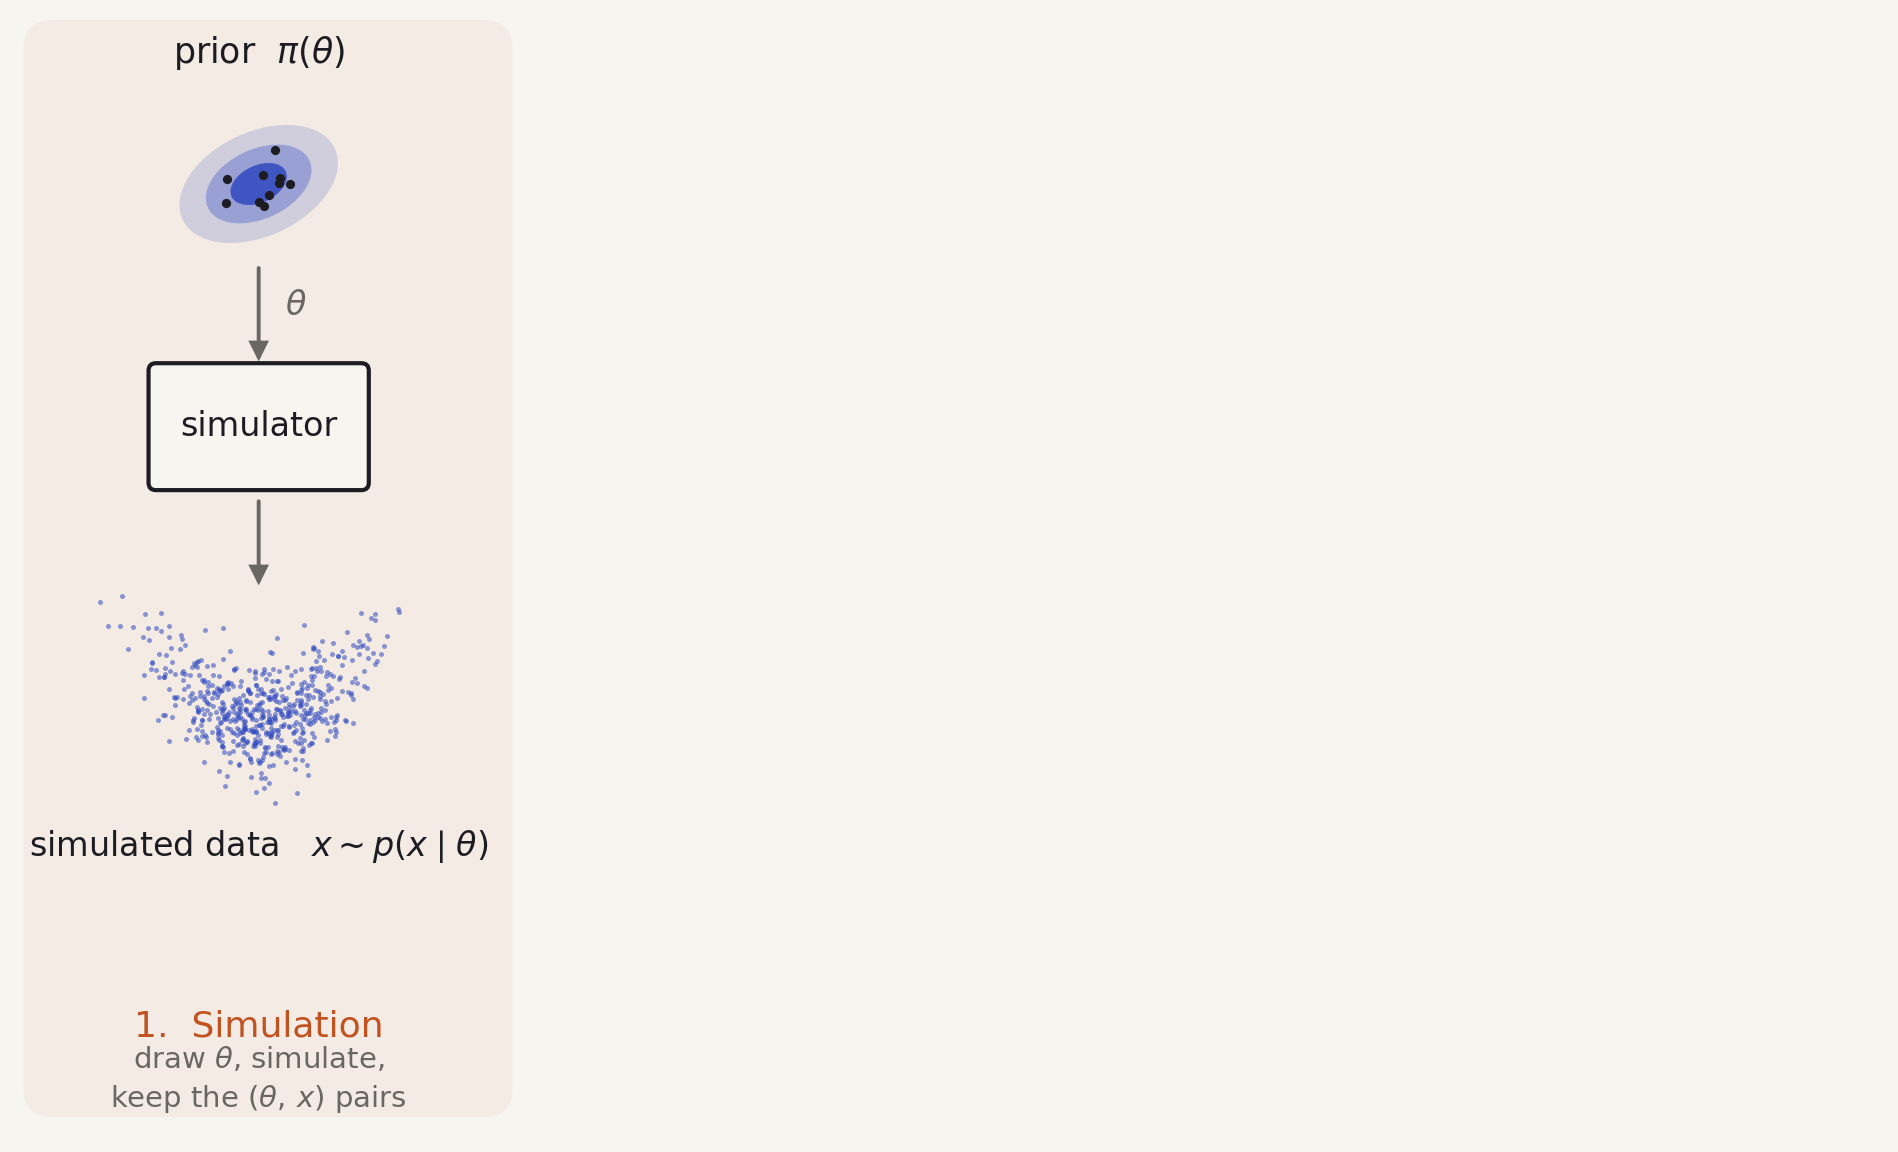
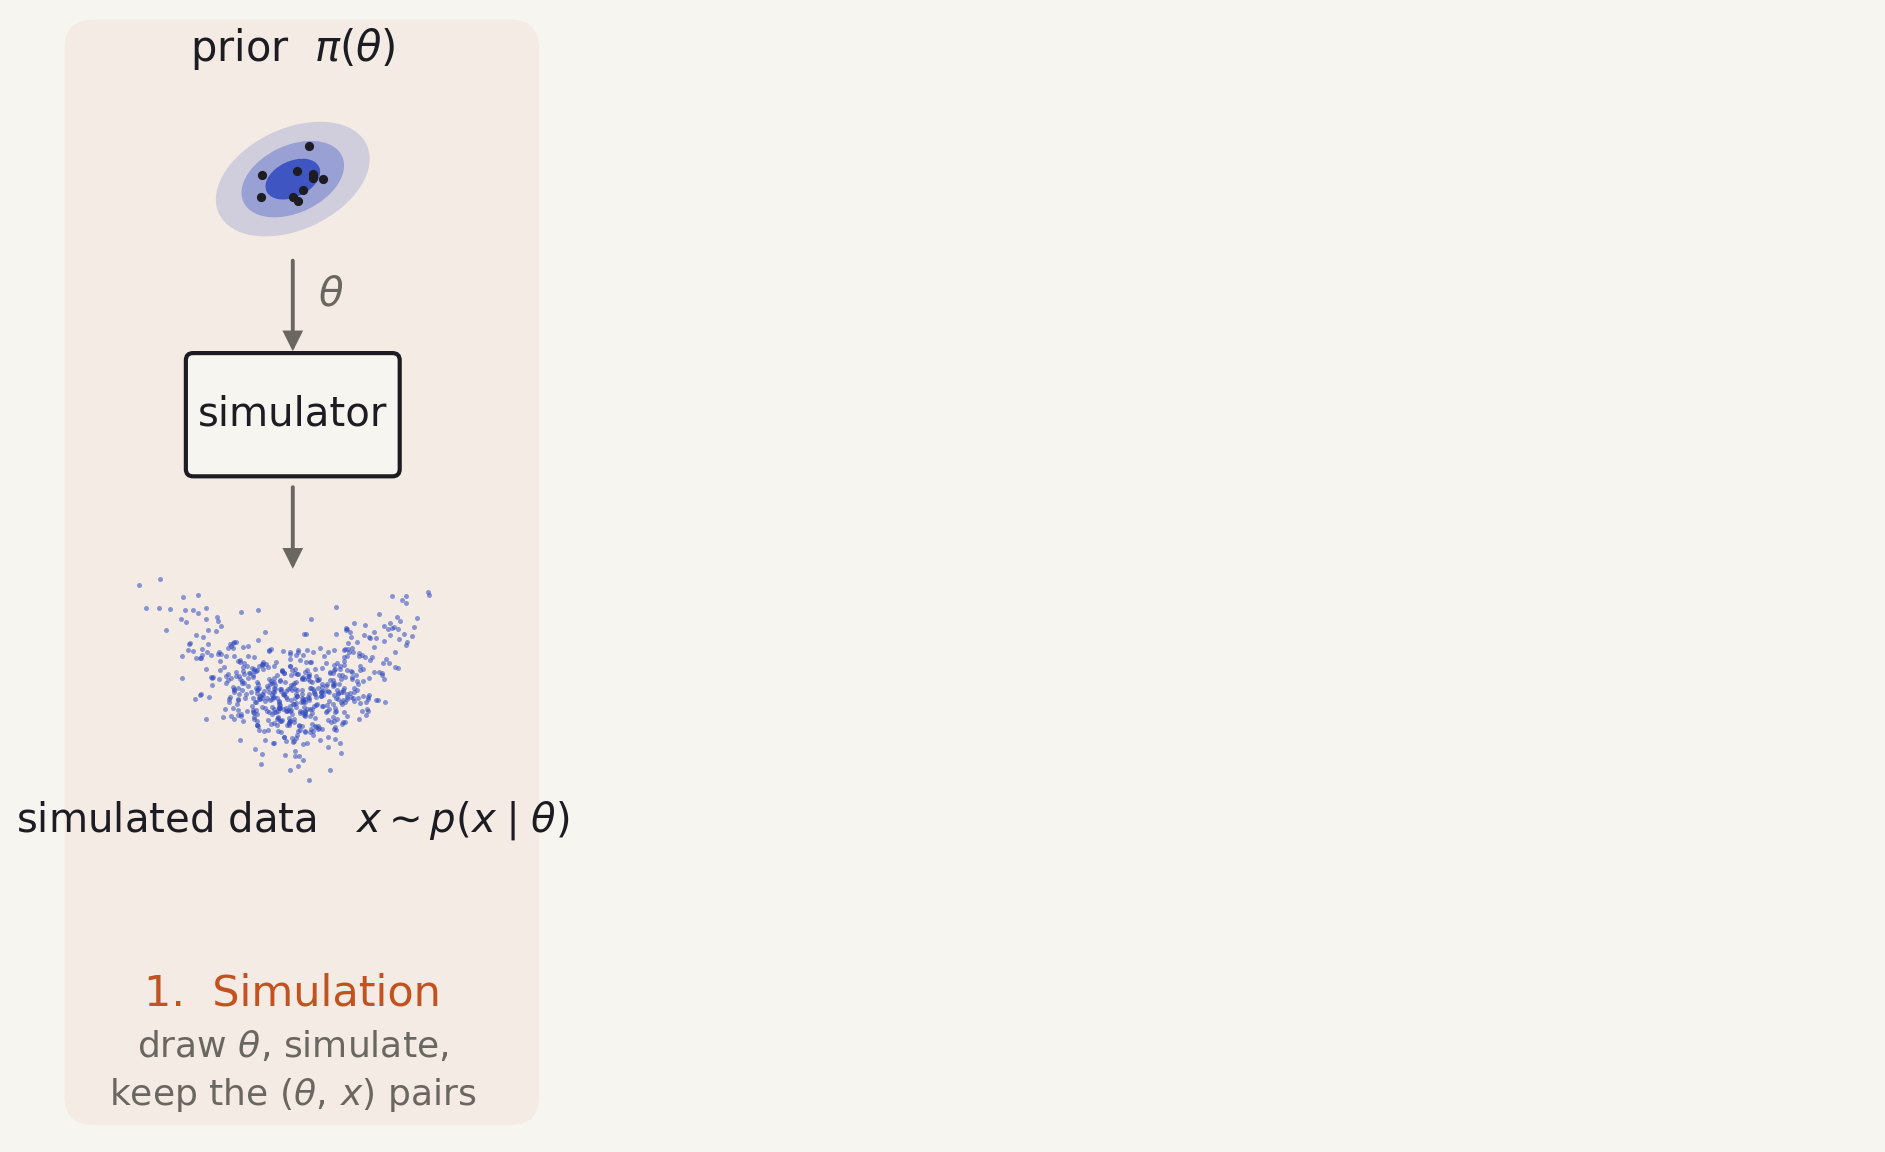
fix(PhD_Defense_2026): frame 36's diagram centres, and its labels clear the floor
The 29px leftward shift was two rules fighting. reveal caps every slide image
at max-width: 95%, so `width: 100%` really meant 1105.8 of the 1164px cell —
and our `margin: 0` overrode the `margin: auto` reveal puts on .r-stack
children, so that narrower image sat flush left instead of centring. Now
max-width: none and margin: 0 auto; the ink lands 1.5px off centre.

Type: on-canvas px = points x (dpi/72) x display scale, and at this figure's
0.486 scale the stage captions were 14.2px and everything else 16-18px —
at or under the deck's 17px floor. All of it up by ~1.21x (10.5 -> 13pt,
12 -> 14.5, 12.5 -> 15, 13 -> 15.5), which lands the smallest at 17.6px.

Three knock-on placements, since the larger type no longer fitted where the
smaller type did:

  - the stage name's descender met its caption's ascender: name -3.2 -> -2.8,
    caption -5.1 -> -5.9, and the panels drop from -8.4 to -10.6 so the
    two-line caption still sits inside its panel
  - "conditional flow q(theta|x)" grew past panel 2's right edge into panel 3:
    centre 58.7 -> 56.0, with "base N" 37 -> 34.5 to keep the gap even
  - ylim -10 -> -11.8 for the lower panels

The crop now comes from the full build's tight bbox rather than the axes box,
which is why the loop runs 3 first — the partial builds reuse that one box, so
they still stack in register. Ink margins are even to 4px.

Frame 36 measures 692 of 720px. Both fragment states verified.
[…]

diff --git a/PhD_Defense_2026/custom.css b/PhD_Defense_2026/custom.css
@@ -2200,8 +2200,12 @@
    so the same deck sized this figure differently on a laptop and a projector.
    560 is the vertical budget left by the title and the lede. */
 .reveal .slides section.sbigen .sbi-fig img {
-	width: 100%; height: auto; max-height: 560px; object-fit: contain;
-	margin: 0; border: 0; box-shadow: none; background: transparent;
+	/* max-width: none — reveal caps every slide image at 95%, so width: 100%
+	   was really 95% (1105.8 of 1164px). And `margin: 0` overrode the
+	   `margin: auto` reveal puts on .r-stack children, so that narrower image
+	   sat flush left in its grid cell: the figure read 29px left of centre. */
+	width: 100%; max-width: none; height: auto; max-height: 560px; object-fit: contain;
+	margin: 0 auto; border: 0; box-shadow: none; background: transparent;
 }
 .reveal .slides section.sbigen .pull { max-width: 94%; margin-top: 1em; }
 

diff --git a/tools/make-sbi-pipeline.py b/tools/make-sbi-pipeline.py
@@ -46,11 +46,14 @@ PANELS = [
 ]
 
 
+CROP = None                      # set by the first call; see save, below
+
+
 def draw(upto):
     fig, ax = plt.subplots(figsize=(13.6, 5.6), dpi=200)
     fig.patch.set_facecolor(PAPER)
     ax.set_facecolor(PAPER)
-    ax.set_xlim(0, 100); ax.set_ylim(-10, 50)
+    ax.set_xlim(0, 100); ax.set_ylim(-11.8, 50)
     ax.set_xticks([]); ax.set_yticks([]); ax.set_aspect("equal")
     for sp in ax.spines.values():
         sp.set_visible(False)
@@ -91,7 +94,7 @@ def draw(upto):
 
     # the tinted regions, one per stage revealed so far
     for k, (x0, x1, col, alpha) in enumerate(PANELS[:upto], start=1):
-        ax.add_patch(FancyBboxPatch((x0, -8.4), x1 - x0, 57.6,
+        ax.add_patch(FancyBboxPatch((x0, -10.6), x1 - x0, 59.8,
                                     boxstyle="round,pad=0.6,rounding_size=1.6",
                                     facecolor=col, alpha=alpha, edgecolor="none",
                                     zorder=0))
@@ -99,7 +102,7 @@ def draw(upto):
     rng = np.random.default_rng(5)
 
     # ======================================================== 1. simulation
-    ax.text(13, 47.5, r"prior  $\pi(\theta)$", ha="center", fontsize=12.5, color=INK)
+    ax.text(13, 47.5, r"prior  $\pi(\theta)$", ha="center", fontsize=15, color=INK)
     for w, a in ((9.0, 0.18), (6.0, 0.34), (3.2, 0.85)):
         ax.add_patch(Ellipse((13, 41), w, 0.62 * w, angle=25, facecolor=ACCENT,
                              alpha=a, edgecolor="none"))
@@ -107,11 +110,11 @@ def draw(upto):
     ax.scatter(th[:, 0], th[:, 1], s=11, color=INK, zorder=5, linewidths=0)
 
     arrow(13, 36.5, 13, 31.5)
-    ax.text(14.4, 34, r"$\theta$", fontsize=12, color=MUTED)
+    ax.text(14.4, 34, r"$\theta$", fontsize=14.5, color=MUTED)
 
     ax.add_patch(FancyBboxPatch((7.5, 25.0), 11, 6, boxstyle="round,pad=0.4",
                                 facecolor=PAPER, edgecolor=INK, lw=1.5))
-    ax.text(13, 28.0, "simulator", ha="center", va="center", fontsize=12, color=INK)
+    ax.text(13, 28.0, "simulator", ha="center", va="center", fontsize=14.5, color=INK)
 
     arrow(13, 24.0, 13, 19.5)
     xs = rng.normal(size=(600, 2))
@@ -120,11 +123,11 @@ def draw(upto):
     keep = (px > 4) & (px < 22) & (py > 7.5) & (py < 19)
     ax.scatter(px[keep], py[keep], s=3.2, color=ACCENT, alpha=0.55, linewidths=0)
     ax.text(13, 5.0, r"simulated data   $x \sim p(x \mid \theta)$",
-            ha="center", fontsize=12, color=INK)
+            ha="center", fontsize=14.5, color=INK)
 
     # ========================================================== 2. learning
     if upto >= 2:
-        ax.text(37, 40.5, r"base  $\mathcal{N}$", ha="center", fontsize=12.5,
+        ax.text(34.5, 40.5, r"base  $\mathcal{N}$", ha="center", fontsize=15,
                 color=INK)
         for w, a in ((8.0, 0.18), (5.2, 0.34), (2.8, 0.85)):
             ax.add_patch(Ellipse((37, 30), w, w * 0.62 * 1.6, facecolor=ACCENT,
@@ -142,29 +145,29 @@ def draw(upto):
             ax.scatter([cx] * k, ys, s=70, facecolor=PAPER, edgecolor=ACCENT,
                        lw=1.3, zorder=3)
             prev = (cx, ys)
-        ax.text(58.7, 40.5, r"conditional flow   $q_\phi(\theta \mid x)$",
-                ha="center", fontsize=12.5, color=ACCENT)
+        ax.text(56.0, 40.5, r"conditional flow   $q_\phi(\theta \mid x)$",
+                ha="center", fontsize=15, color=ACCENT)
 
         ax.plot([21, 58.7], [13.5, 13.5], color=INK, lw=1.3, solid_capstyle="butt")
         arrow(58.7, 13.5, 58.7, 25.5, color=INK)
-        ax.text(40, 15.4, r"the pairs  $(\theta,\, x)$", ha="center", fontsize=12,
+        ax.text(40, 15.4, r"the pairs  $(\theta,\, x)$", ha="center", fontsize=14.5,
                 color=INK)
         ax.text(40, 10.6, "trained by maximum likelihood", ha="center",
-                fontsize=10.5, color=MUTED)
+                fontsize=13, color=MUTED)
 
     # ========================================================= 3. inference
     if upto >= 3:
         ax.add_patch(FancyBboxPatch((73.5, 42.5), 21, 5.6, boxstyle="round,pad=0.4",
                                     facecolor=PAPER, edgecolor=INK, lw=1.5))
         ax.text(84, 45.3, r"observed  $x_{\rm obs}$", ha="center", va="center",
-                fontsize=12, color=INK)
+                fontsize=14.5, color=INK)
         arrow(84, 41.6, 84, 36.5)
         arrow(68.5, 30, 74.0, 30, color=WARM)
-        ax.text(71.3, 32.2, "trained", ha="center", fontsize=10.5, color=WARM)
+        ax.text(71.3, 32.2, "trained", ha="center", fontsize=13, color=WARM)
         blob(84.5, 29.0)
-        ax.text(84, 14.5, "posterior estimate", ha="center", fontsize=12, color=INK)
+        ax.text(84, 14.5, "posterior estimate", ha="center", fontsize=14.5, color=INK)
         ax.text(84, 10.3, r"$q_\phi(\theta \mid x_{\rm obs})$", ha="center",
-                fontsize=13, color=ACCENT)
+                fontsize=15.5, color=ACCENT)
 
     # ============================================================= captions
     STAGES = [(3.5, 22.5, "1.  Simulation", "draw $\\theta$, simulate,\nkeep the $(\\theta,\\, x)$ pairs"),
@@ -172,32 +175,38 @@ def draw(upto):
               (74.0, 97.0, "3.  Inference", "evaluate at $x_{\\rm obs}$;\ncheap to repeat")]
     for k, (x0, x1, name, sub) in enumerate(STAGES[:upto], start=1):
         col = "#c2521f" if k == 1 else ACCENT
-        ax.text((x0 + x1) / 2, -3.2, name, ha="center", va="top", fontsize=13,
+        ax.text((x0 + x1) / 2, -2.8, name, ha="center", va="top", fontsize=15.5,
                 color=col)
-        ax.text((x0 + x1) / 2, -5.1, sub, ha="center", va="top", fontsize=10.5,
+        ax.text((x0 + x1) / 2, -5.9, sub, ha="center", va="top", fontsize=13,
                 color=MUTED, linespacing=1.4)
 
     fig.subplots_adjust(0, 0, 1, 1)
     out = f"assets/diagrams/sbi_build_{upto}.png"
-    # Crop to the DATA box, not to the ink. set_aspect("equal") on a 13.6x5.6
-    # figure holding a 100x60 data range leaves the drawing filling the height
-    # and only 68.6% of the width, centred — 35% of every pixel emitted was
-    # empty margin, and on the slide that margin ate the size budget: the
-    # diagram rendered at 687px of a 1164px box. apply_aspect() has already
-    # shrunk the axes position by the time we ask for it, so this is the real
-    # extent; it is identical for all three builds, so they still align.
-    # bbox_inches="tight" would NOT do — it crops to each build's own ink, and
-    # build 1 has ink across a third of the width.
+    # Crop to the drawing, once, and reuse that box for all three builds.
+    #
+    # set_aspect("equal") on a 13.6x5.6 figure holding a 100x60 data range leaves
+    # the drawing filling the height and only 68.6% of the width, centred — 35%
+    # of every pixel emitted was empty margin, and on the slide that margin ate
+    # the size budget: the diagram rendered at 687px inside a 1164px box.
+    #
+    # The box comes from the FULL build's tight bbox, which is why the loop at
+    # the foot runs 3 first. bbox_inches="tight" per-figure would NOT do: it
+    # crops each build to its own ink, and build 1 covers a third of the width,
+    # so the three would no longer stack in register.
+    global CROP
+    fig.subplots_adjust(0, 0, 1, 1)
     fig.canvas.draw()
-    pos = ax.get_position()
-    W, H = fig.get_size_inches()
-    pad = 0.08
-    bb = Bbox.from_extents(pos.x0 * W - pad, pos.y0 * H - pad,
-                           pos.x1 * W + pad, pos.y1 * H + pad)
-    fig.savefig(out, facecolor=PAPER, bbox_inches=bb)
+    if CROP is None:
+        tb = fig.get_tightbbox(fig.canvas.get_renderer())
+        pad = 0.08
+        CROP = Bbox.from_extents(tb.x0 - pad, tb.y0 - pad,
+                                 tb.x1 + pad, tb.y1 + pad)
+    out = f"assets/diagrams/sbi_build_{upto}.png"
+    fig.savefig(out, facecolor=PAPER, bbox_inches=CROP)
     plt.close(fig)
     print("wrote", out)
 
 
-for k in (1, 2, 3):
+# 3 first: the full build defines the crop that all three share.
+for k in (3, 1, 2):
     draw(k)
